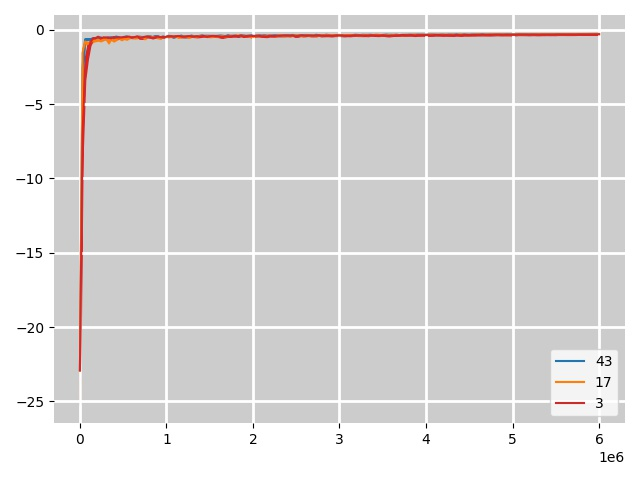
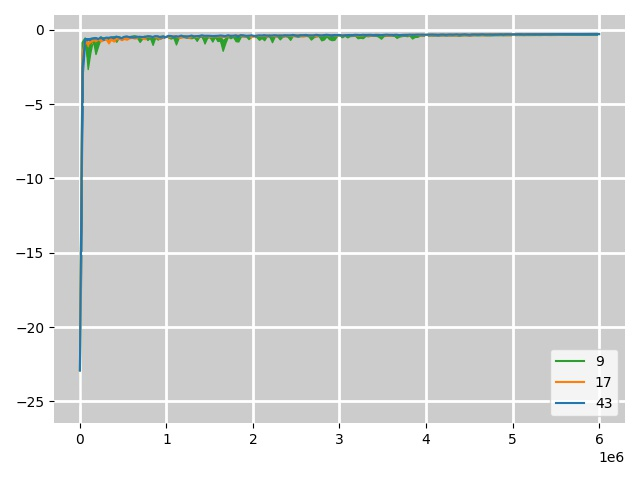
updated hps

Changed region(s): [[0.125, 0.0625, 0.9375, 0.7188], [0.875, 0.8125, 0.9688, 0.8438], [0.875, 0.75, 0.9688, 0.7812]]

diff --git a/plot/numerate_hps_results.py b/plot/numerate_hps_results.py
@@ -7,8 +7,9 @@ import pandas as pd
 import utils.plot_style_settings as pss
 
 
-def extract_ppo_data(directory):
+def get_ppo_data(directory):
     """
+    Obtain the average return for 200 policy evaluations (or an entire run) across 10 runs for a single hyperparameter setting.
 
     @param directory: string
         directory for PPO experiment data
@@ -85,8 +86,15 @@ def extract_ppo_data(directory):
         return df_mean, df_sem
 
 
-def extract_ppo_summary_data(directory):
+def get_ppo_summary_data(directory):
     """
+    Obtain summary data for a single hyperparameter setting, averaged across 10 runs.
+
+    Summary data includes:
+    - performance mean: average of the (average) return in the last 20 policy evaluations
+    - performance mean low: lower bound for 95% confidence interval
+    - performance mean high: upper bound for 95% confidence interval
+    - performance mean sum: sum of the average return across 200 policy evaluations (entire run)
 
     @param directory: string
         directory for PPO experiment data
@@ -176,8 +184,9 @@ def extract_ppo_summary_data(directory):
         return [pss, performance_mean, performance_mean - 2.262 * performance_sem, performance_mean + 2.262 * performance_sem, performance_mean_sum]
 
 
-def extract_sac_data(directory):
+def get_sac_data(directory):
     """
+    Obtain the average return for 200 policy evaluations (or an entire run) across 10 runs for a single hyperparameter setting.
 
     @param directory: string
         directory for SAC experiment data
@@ -238,8 +247,15 @@ def extract_sac_data(directory):
         return df_mean, df_sem
 
 
-def extract_sac_summary_data(directory):
+def get_sac_summary_data(directory):
     """
+    Obtain summary data for a single hyperparameter setting, averaged across 10 runs.
+
+    Summary data includes:
+    - performance mean: average of the (average) return in the last 20 policy evaluations
+    - performance mean low: lower bound for 95% confidence interval
+    - performance mean high: upper bound for 95% confidence interval
+    - performance mean sum: sum of the average return across 200 policy evaluations (entire run)
 
     @param directory: string
         directory for SAC experiment data
@@ -418,20 +434,20 @@ def plot_fetchreach_ppo(seeds, df_means, df_sems):
     s3 = df_sems[3]["average_return"]
     s4 = df_sems[4]["average_return"]
 
-    plt.plot(x, y0, color="tab:blue", label=str(seeds[0]))
-    plt.fill_between(x, y0 - s0, y0 + s0, color="tab:blue")
+    # plt.plot(x, y4, color="tab:purple", label=str(seeds[4]))
+    # plt.fill_between(x, y4 - s4, y4 + s4, color="tab:purple")
+    #
+    # plt.plot(x, y3, color="tab:red", label=str(seeds[3]))
+    # plt.fill_between(x, y3 - s3, y3 + s3, color="tab:red")
+
+    plt.plot(x, y2, color="tab:green", label=str(seeds[2]))
+    plt.fill_between(x, y2 - s2, y2 + s2, color="tab:green")
 
     plt.plot(x, y1, color="tab:orange", label=str(seeds[1]))
     plt.fill_between(x, y1 - s1, y1 + s1, color="tab:orange")
 
-    # plt.plot(x, y2, color="tab:green", label=str(seeds[2]))
-    # plt.fill_between(x, y2 - s2, y2 + s2, color="tab:green")
-
-    plt.plot(x, y3, color="tab:red", label=str(seeds[3]))
-    plt.fill_between(x, y3 - s3, y3 + s3, color="tab:red")
-
-    # plt.plot(x, y4, color="tab:purple", label=str(seeds[4]))
-    # plt.fill_between(x, y4 - s4, y4 + s4, color="tab:purple")
+    plt.plot(x, y0, color="tab:blue", label=str(seeds[0]))
+    plt.fill_between(x, y0 - s0, y0 + s0, color="tab:blue")
 
     plt.legend()
 
@@ -460,20 +476,20 @@ def plot_fetchreach_sac(seeds, df_means, df_sems):
     s3 = df_sems[3]["average_return"]
     s4 = df_sems[4]["average_return"]
 
-    plt.plot(x, y0, color="tab:blue", label=str(seeds[0]))
-    plt.fill_between(x, y0 - s0, y0 + s0, color="tab:blue")
-
-    plt.plot(x, y1, color="tab:orange", label=str(seeds[1]))
-    plt.fill_between(x, y1 - s1, y1 + s1, color="tab:orange")
-
-    plt.plot(x, y2, color="tab:green", label=str(seeds[2]))
-    plt.fill_between(x, y2 - s2, y2 + s2, color="tab:green")
+    # plt.plot(x, y4, color="tab:purple", label=str(seeds[4]))
+    # plt.fill_between(x, y4 - s4, y4 + s4, color="tab:purple")
 
     # plt.plot(x, y3, color="tab:red", label=str(seeds[3]))
     # plt.fill_between(x, y3 - s3, y3 + s3, color="tab:red")
 
-    # plt.plot(x, y4, color="tab:purple", label=str(seeds[4]))
-    # plt.fill_between(x, y4 - s4, y4 + s4, color="tab:purple")
+    plt.plot(x, y2, color="tab:green", label=str(seeds[2]))
+    plt.fill_between(x, y2 - s2, y2 + s2, color="tab:green")
+
+    plt.plot(x, y1, color="tab:orange", label=str(seeds[1]))
+    plt.fill_between(x, y1 - s1, y1 + s1, color="tab:orange")
+
+    plt.plot(x, y0, color="tab:blue", label=str(seeds[0]))
+    plt.fill_between(x, y0 - s0, y0 + s0, color="tab:blue")
 
     plt.legend()
 
@@ -498,7 +514,7 @@ def ant():
 
     for dir_ in ant_data_dirs:
         if "PPO" in dir_:
-            ant_ppo_result = extract_ppo_summary_data(ant_data_dir + "/" + dir_)
+            ant_ppo_result = get_ppo_summary_data(ant_data_dir + "/" + dir_)
             ant_ppo_results.append(ant_ppo_result)
 
     df = pd.DataFrame(data=ant_ppo_results,
@@ -521,7 +537,7 @@ def ant():
     for seed in top_hps_seeds:
         for dir_ in ant_data_dirs:
             if "PPO" in dir_ and "pss:" + str(seed) == dir_[-(4 + len(str(seed))):]:
-                df_mean, df_sem = extract_ppo_data(ant_data_dir + "/" + dir_)
+                df_mean, df_sem = get_ppo_data(ant_data_dir + "/" + dir_)
                 top_ant_ppo_results_mean.append(df_mean)
                 top_ant_ppo_results_sem.append(df_sem)
 
@@ -535,7 +551,7 @@ def ant():
 
     for dir_ in ant_data_dirs:
         if "SAC" in dir_:
-            ant_sac_result = extract_sac_summary_data(ant_data_dir + "/" + dir_)
+            ant_sac_result = get_sac_summary_data(ant_data_dir + "/" + dir_)
             ant_sac_results.append(ant_sac_result)
 
     df = pd.DataFrame(data=ant_sac_results,
@@ -558,7 +574,7 @@ def ant():
     for seed in top_hps_seeds:
         for dir_ in ant_data_dirs:
             if "PPO" in dir_ and "pss:" + str(seed) == dir_[-(4 + len(str(seed))):]:
-                df_mean, df_sem = extract_ppo_data(ant_data_dir + "/" + dir_)
+                df_mean, df_sem = get_ppo_data(ant_data_dir + "/" + dir_)
                 top_ant_ppo_results_mean.append(df_mean)
                 top_ant_ppo_results_sem.append(df_sem)
 
@@ -582,7 +598,7 @@ def fetchreach():
 
     for dir_ in fetchreach_data_dirs:
         if "PPO" in dir_:
-            fetchreach_ppo_result = extract_ppo_summary_data(fetchreach_data_dir + "/" + dir_)
+            fetchreach_ppo_result = get_ppo_summary_data(fetchreach_data_dir + "/" + dir_)
             fetchreach_ppo_results.append(fetchreach_ppo_result)
 
     df = pd.DataFrame(data=fetchreach_ppo_results,
@@ -605,7 +621,7 @@ def fetchreach():
     for seed in top_hps_seeds:
         for dir_ in fetchreach_data_dirs:
             if "PPO" in dir_ and "pss:" + str(seed) == dir_[-(4 + len(str(seed))):]:
-                df_mean, df_sem = extract_ppo_data(fetchreach_data_dir + "/" + dir_)
+                df_mean, df_sem = get_ppo_data(fetchreach_data_dir + "/" + dir_)
                 top_fetchreach_ppo_results_mean.append(df_mean)
                 top_fetchreach_ppo_results_sem.append(df_sem)
 
@@ -619,7 +635,7 @@ def fetchreach():
 
     for dir_ in fetchreach_data_dirs:
         if "SAC" in dir_:
-            fetchreach_sac_result = extract_sac_summary_data(fetchreach_data_dir + "/" + dir_)
+            fetchreach_sac_result = get_sac_summary_data(fetchreach_data_dir + "/" + dir_)
             fetchreach_sac_results.append(fetchreach_sac_result)
 
     df = pd.DataFrame(data=fetchreach_sac_results,
@@ -642,7 +658,7 @@ def fetchreach():
     for seed in top_hps_seeds:
         for dir_ in fetchreach_data_dirs:
             if "SAC" in dir_ and "pss:" + str(seed) == dir_[-(4 + len(str(seed))):]:
-                df_mean, df_sem = extract_sac_data(fetchreach_data_dir + "/" + dir_)
+                df_mean, df_sem = get_sac_data(fetchreach_data_dir + "/" + dir_)
                 top_fetchreach_sac_results_mean.append(df_mean)
                 top_fetchreach_sac_results_sem.append(df_sem)
 
@@ -652,7 +668,7 @@ def fetchreach():
 if __name__ == "__main__":
 
     # DATA_DIR = "/Users/sheilaschoepp/Documents/DATA"
-    DATA_DIR = "/mnt/DATA"
+    DATA_DIR = "/mnt/DATA/"
 
     RUNS = 10
 
